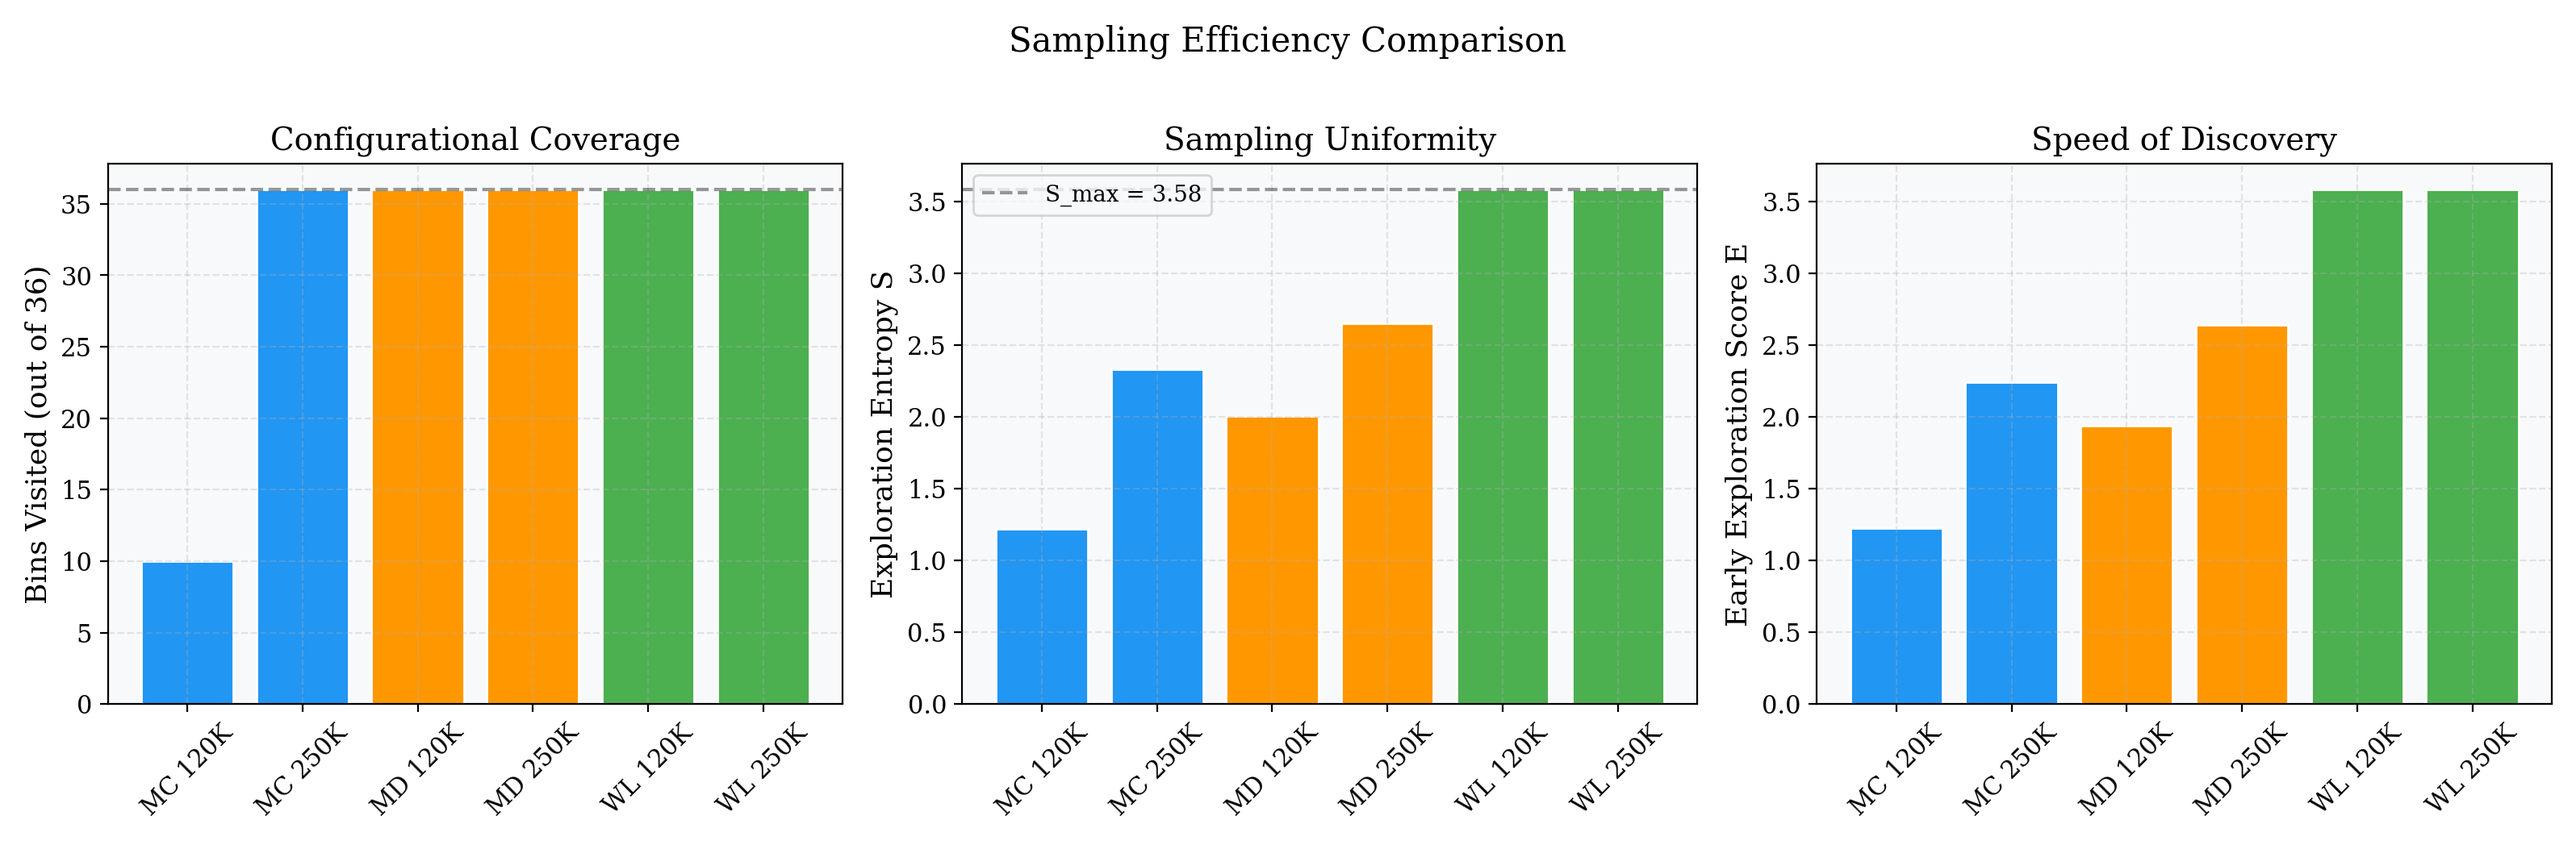
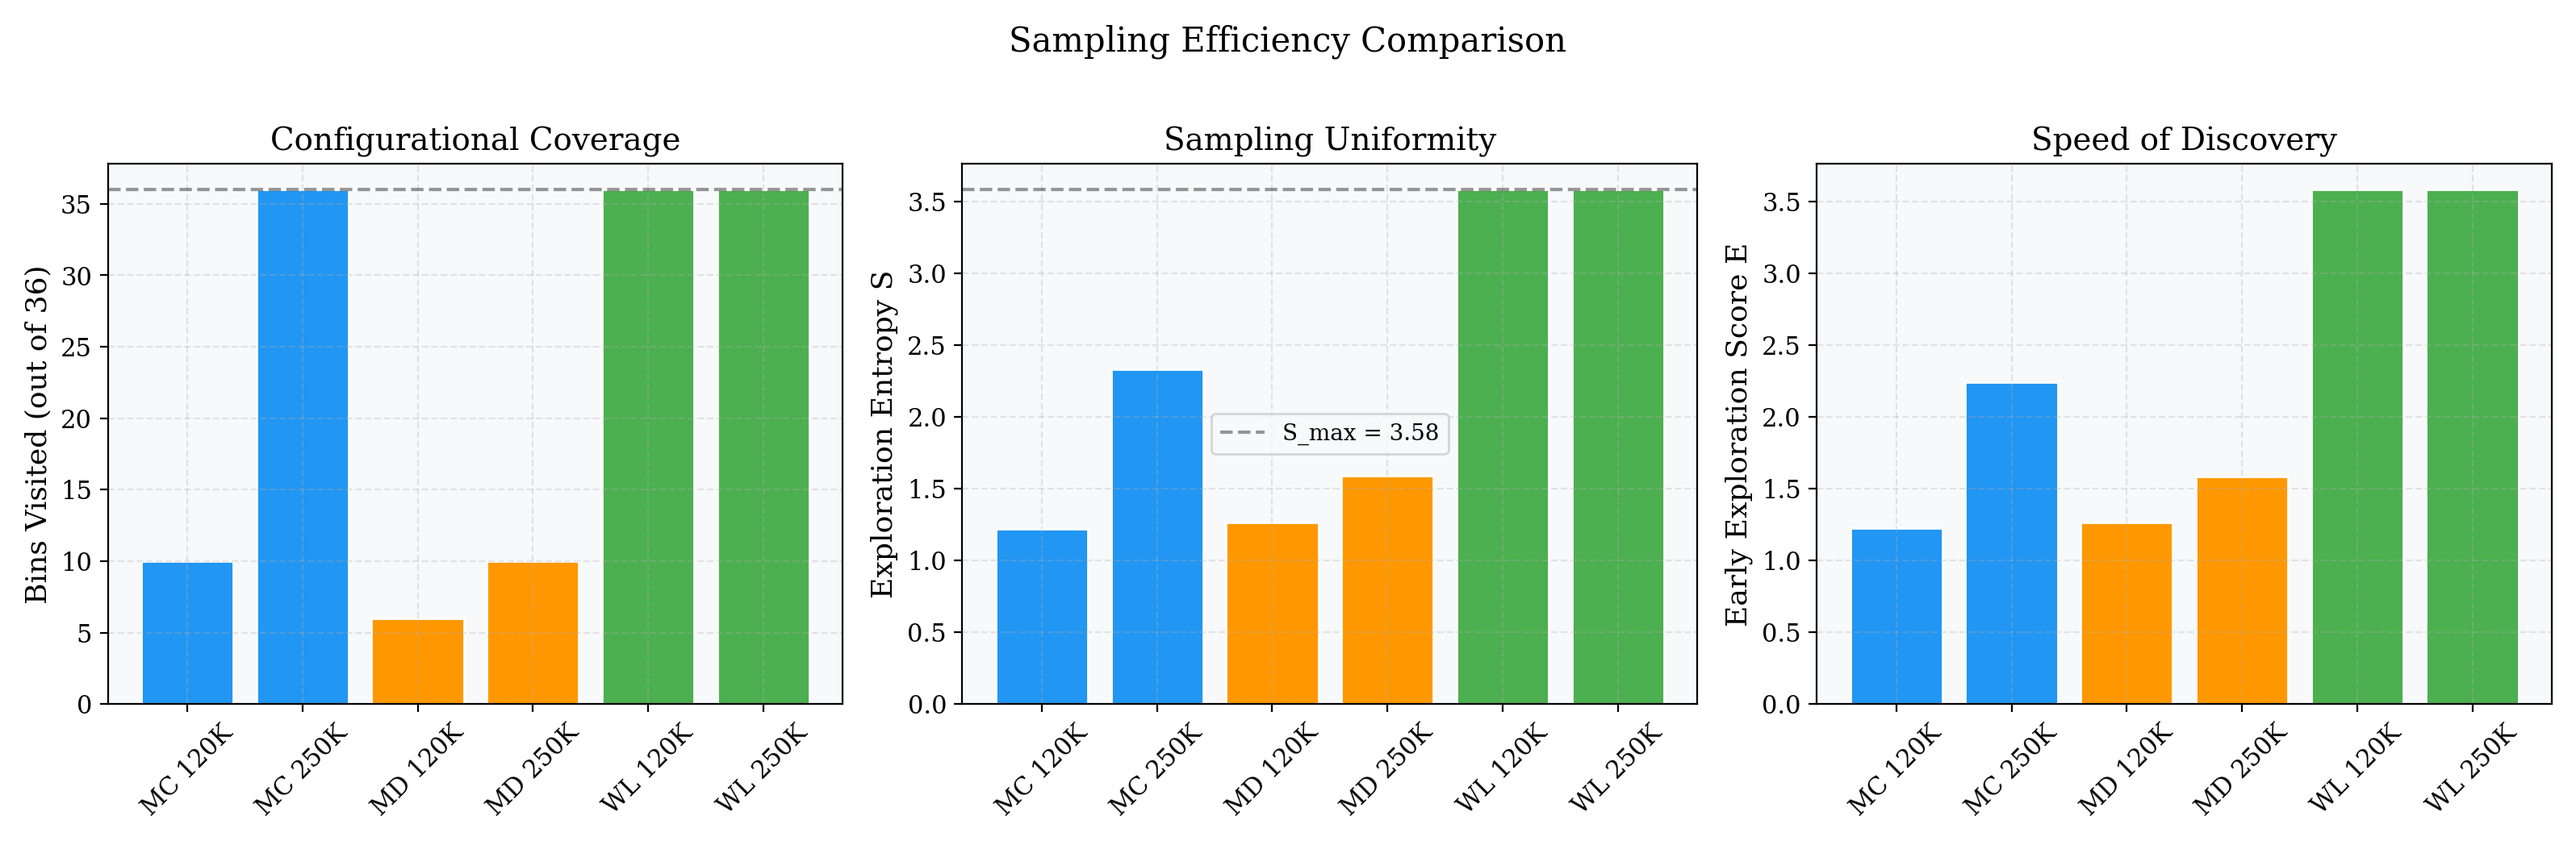
Fix torque sign bug in MD and regenerate results

diff --git a/src/pentane/md.py b/src/pentane/md.py
@@ -75,12 +75,13 @@ def nvt_md_simulation(
 
     Notes
     -----
-    The torque is converted from Kelvin/radian to internal MD units
-    (amu*Ang^2/ps^2) via:
-        F_internal = tau_K * k_B[kJ/(mol*K)] / unit_conv[kJ*mol^-1 per amu*Ang^2*ps^-2]
+    Unit conversion: torsion_force() returns τ = −dU/dφ in Kelvin/radian.
+    Converting to internal MD units (amu·Å²/ps²):
 
-    Note the sign: torsion_force() returns -dU/dphi (see forcefield module),
-    so we multiply by -1 here to get the physical torque in MD units.
+        F_ang = τ [K/rad] × k_B [kJ/(mol·K)] / unit_conv [kJ·mol⁻¹ per amu·Å²·ps⁻²]
+
+    torsion_force() already carries the correct sign (it returns −dU/dφ),
+    so NO additional negation is applied here.
     """
     rng = np.random.default_rng(seed)
 
@@ -97,15 +98,16 @@ def nvt_md_simulation(
 
     for i in range(n_steps):
         # --- Half-step velocity update ---
-        # torsion_force returns -dU/dphi in K/rad; convert to amu*Ang^2/ps^2
-        F_ang = -torsion_force(phi) * KB_KJ_MOL / UNIT_CONV
+        # torsion_force returns τ = −dU/dφ in K/rad; convert to amu·Å²/ps²
+        # No extra negation: torsion_force already gives the physical torque.
+        F_ang = torsion_force(phi) * KB_KJ_MOL / UNIT_CONV
         omega += 0.5 * dt * (F_ang / I_EFF - xi * omega)
 
         # --- Full-step position update ---
         phi = (phi + dt * omega + np.pi) % (2.0 * np.pi) - np.pi
 
         # --- Recompute force at new position ---
-        F_ang = -torsion_force(phi) * KB_KJ_MOL / UNIT_CONV
+        F_ang = torsion_force(phi) * KB_KJ_MOL / UNIT_CONV
 
         # --- First half-step thermostat update ---
         KE = 0.5 * I_EFF * omega**2
